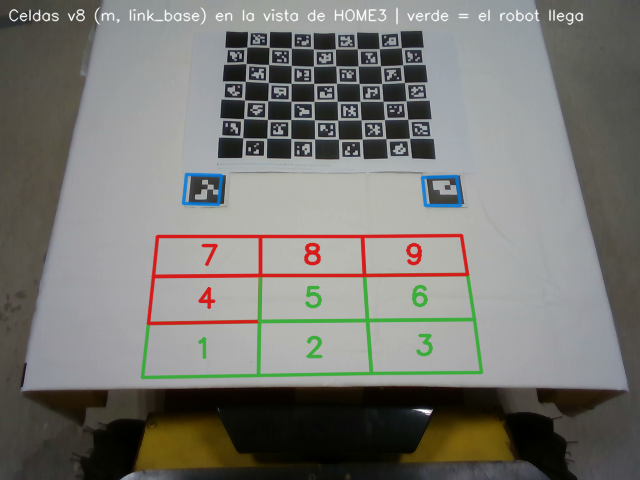
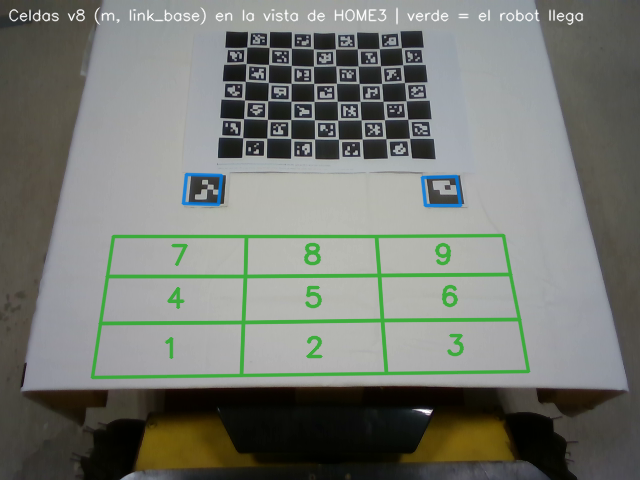
feat(v8): widen the table grid to ±0.27 m (was ±0.21) at the user's request
The tablecloth, measured through the ArUco homography, spans y from
-0.36 to +0.34 m. ±0.27 m is the widest grid the robot reaches in every
cell within the bridge box (|y| <= 0.30 for the TCP, which sits ~6 cm
from the camera). At ±0.28 cells 3, 6 and 9 fail. Columns are three
equal 18 cm bands.

The reach check now uses the protocol camera orientation
(check_camera_yaws_deg: [0], the HOME3 orientation) instead of a camera
turned with the blades. Cross-check against the camera-pose projection:
10 px. Guide and schedule tests pass.

Changed region(s): [[0.125, 0.4688, 0.8438, 0.8125]]

diff --git a/tools/hardware/make_v8_cells.py b/tools/hardware/make_v8_cells.py
@@ -95,8 +95,9 @@ def main(argv=None) -> int:
 
     def reachable(p_xy):
         ok, worst = 0, 0.0
-        # cam_looking_down usa "positivo = antihorario"; tool_yaws_deg, "+90 = derecha" (horario visto desde arriba)
-        combos = [(h, -float(yw)) for h in cfg["check_heights_m"] for yw in cfg["tool_yaws_deg"]]
+        # Orientación de la CÁMARA al final según el protocolo (check_camera_yaws_deg; [0] = la de HOME3, sin girarla con
+        # las hojas). cam_looking_down usa "positivo = antihorario"; la configuración, "+90 = derecha".
+        combos = [(h, -float(yw)) for h in cfg["check_heights_m"] for yw in cfg.get("check_camera_yaws_deg", [0.0])]
         for h, yw in combos:
             T_opt = cam_looking_down([p_xy[0], p_xy[1], zt + h], yw)
             T_tcp = T_opt @ inv_T(T_link_opt) @ inv_T(T_tcp_link)
